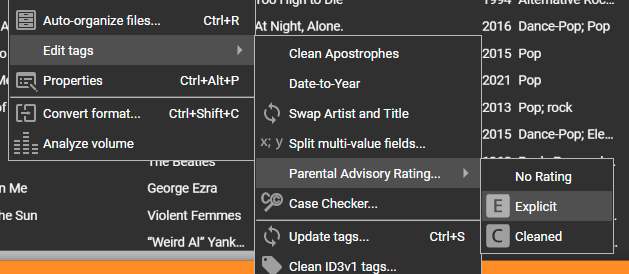
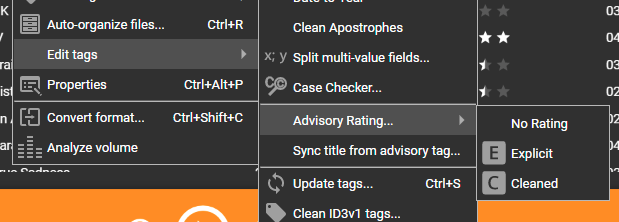
feat: Store advisory in title, and minor fixes Closes: #1, #2, #3

diff --git a/src/actions_add.js b/src/actions_add.js
@@ -1,61 +1,113 @@
 (() => {
 
-    var fieldName_iTunes = 'ITUNESADVISORY';
-
     actions.setParentalRating = {
-        title: _('Parental Advisory Rating') + '...',
+        title: _('Advisory Rating') + '...',
         hotkeyAble: false,
         disabled: uitools.notMediaListSelected,
         visible: window.uitools.getCanEdit,
         submenu: [
-            // {
-            //     title: "Inspect",
-            //     execute: () => {
-            //         let trackList = uitools.getSelectedTracklist();
-            //         uitools.toastMessage.show((typeof trackList), { disableUndo: true });
-            //     }
-            // },
             {
-                title: "No Rating",
-                execute: async () => { await setParentalAdvisoryRating(0); }
+                title: _("No Rating"),
+                execute: async () => { await setAdvisoryRating(0); }
             },
             {
-                title: "Explicit",
+                title: _("Explicit"),
                 icon: "explicit_e",
-                execute: async () => { await setParentalAdvisoryRating(1); }
+                execute: async () => { await setAdvisoryRating(1); }
             },
             {
-                title: "Cleaned",
+                title: _("Cleaned"),
                 icon: "cleaned_c",
-                execute: async () => { await setParentalAdvisoryRating(2); }
+                execute: async () => { await setAdvisoryRating(2); }
             },
         ]
     }
 
+    actions.syncTitleFromAdvisoryTag = {
+        title: _("Sync title from advisory tag") + "...",
+        hotkeyAble: false,
+        disabled: uitools.notMediaListSelected,
+        visible: () => {
+            if (!window.uitools.getCanEdit())
+                return false;
+
+            let config = app.getValue('parentalrating_config', { advisoryInTitle: false });
+            return config.advisoryInTitle;
+        },
+        execute: async () => { await syncTitleFromAdvisoryTag(); }
+    }
+
     window._menuItems.editTags.action.submenu.push({
         action: actions.setParentalRating,
-        order: 60,
-        grouporder: 10
+        order: 1,
+        grouporder: 11
+    }, {
+        action: actions.syncTitleFromAdvisoryTag,
+        order: 2,
+        grouporder: 11
     });
 
-    async function setParentalAdvisoryRating(newRating) {
-        let trackList = uitools.getSelectedTracklist();
+    actions.setPlayingTrackExplicit = {
+        title: _('Set now playing track explicit'),
+        category: "Edit",
+        icon: "explicit_e",
+        hotkeyAble: true,
+        execute: async () => { setNowPlayingAdvisoryRating(1); }
+    }
 
-        // uitools.toastMessage.show(JSON.stringify({ newRating }), { disableUndo: true });
+    actions.setPlayingTrackNotExplicit = {
+        title: _('Set now playing track NOT explicit'),
+        category: "Edit",
+        icon: "explicit_e",
+        hotkeyAble: true,
+        execute: async () => { setNowPlayingAdvisoryRating(0); }
+    }
+
+    async function setAdvisoryRating(newRating) {
+        let trackList = await uitools.getSelectedTracklist().whenLoaded();
+        if (trackList.count === 0) {
+            return;
+        }
+        let config = app.getValue('parentalrating_config', { advisoryInTitle: false });
 
         await listAsyncForEach(trackList, async (track, next) => {
-            let extendedTags = JSON.parse(await track.getExtendedTagsAsync() || "[]");
 
-            var updatedExtendedTags = JSON.stringify([
-                ...extendedTags.filter(x => x.title != fieldName_iTunes),
-                { "title": fieldName_iTunes, "value": newRating.toString() }]
-            );
-            //uitools.toastMessage.show(JSON.stringify({ newRating, updatedExtendedTags }), { disableUndo: true });
+            track.beginUpdate && track.beginUpdate();
+            await window.uitools.tracklistFieldDefs.itunesAdvisory.setValueAsync(track, newRating, config.advisoryInTitle);
+            track.endUpdate && track.endUpdate();
 
-            await track.setExtendedTagsAsync(updatedExtendedTags);
             next();
         }, async () => {
-            uitools.toastMessage.show(JSON.stringify("Updated tags for " + trackList.count + " tracks"), { disableUndo: true });
+            uitools.toastMessage.show("Updated advisory rating for " + trackList.count + " tracks", { disableUndo: true });
+            await trackList.commitAsync();
+        });
+    }
+
+    async function setNowPlayingAdvisoryRating(newRating) {
+        let config = app.getValue('parentalrating_config', { advisoryInTitle: false });
+        let track = app.player.getCurrentTrack();
+
+        track.beginUpdate && track.beginUpdate();
+        await window.uitools.tracklistFieldDefs.itunesAdvisory.setValueAsync(track, newRating, config.advisoryInTitle);
+        track.endUpdate && track.endUpdate();
+    }
+
+    async function syncTitleFromAdvisoryTag() {
+        let trackList = await uitools.getSelectedTracklist().whenLoaded();
+        if (trackList.count === 0)
+            return;
+        let config = app.getValue('parentalrating_config', { advisoryInTitle: false });
+
+        await listAsyncForEach(trackList, async (track, next) => {
+            let rating = await window.uitools.tracklistFieldDefs.itunesAdvisory.getValueAsync(track);
+
+            track.beginUpdate && track.beginUpdate();
+            await window.uitools.tracklistFieldDefs.itunesAdvisory.setValueAsync(track, rating, config.advisoryInTitle);
+            track.endUpdate && track.endUpdate();
+
+            next();
+        }, async () => {
+            uitools.toastMessage.show("Updated title for " + trackList.count + " tracks", { disableUndo: true });
             await trackList.commitAsync();
         });
     }

diff --git a/src/controls/trackListView_add.js b/src/controls/trackListView_add.js
@@ -1,40 +1,92 @@
-((window) => {
+(() => {
 
     var fieldName_iTunes = 'ITUNESADVISORY';
+    var char_E = "🅴";
+    var char_E_html = "&#127348;";
+    var char_C = "🄲";
+    var char_C_html = "&#127282;";
 
     let audioFieldsIndex = window.uitools.tracklistFieldGroups.findIndex(x => x.group === _('Audio'));
     if (audioFieldsIndex < 0) return;
-    if (window.uitools.tracklistFieldGroups[audioFieldsIndex].fields.indexOf("parentalAdvisory") >= 0) return;
+    if (window.uitools.tracklistFieldGroups[audioFieldsIndex].fields.indexOf("itunesAdvisory") >= 0) return;
 
-    window.uitools.tracklistFieldGroups[audioFieldsIndex].fields.push("parentalAdvisory");
+    window.uitools.tracklistFieldGroups[audioFieldsIndex].fields.push("itunesAdvisory");
 
-    window.uitools.tracklistFieldDefs.parentalAdvisory = {
+    window.uitools.tracklistFieldDefs.itunesAdvisory = {
         title: function () {
             return _('Advisory');
         },
         disabled: false,
         checked: false,
-        bindData: function (div, item) {
-            let advisoryValue = getExtendedTagValue(item, fieldName_iTunes)
-            div.innerHTML = advisoryValue == "1" ? "🅴" : advisoryValue == "2" ? "🅲" : "";
-            var tipTxt = advisoryValue == "1" ? "Explicit Content" : advisoryValue == "2" ? "Cleaned" : "No Rating";
+        width: 40,
+        adaptableSize: false,
+        noSorting: true,
+        bindData: async function (div, item) {
+            let advisoryValue = await getExtendedTagValueAsync(item, fieldName_iTunes)
+            div.innerHTML = advisoryValue == "1" ? char_E : advisoryValue == "2" ? char_C : "";
+            var tipTxt = advisoryValue == "1" ? "Explicit Content" : advisoryValue == "2" ? "Cleaned" : undefined;
             if (tipTxt)
                 div.setAttribute('data-tip', tipTxt);
             else
                 div.removeAttribute('data-tip');
         },
-        getValue: function (item) {
-            return getExtendedTagValue(item, fieldName_iTunes);
+        getValueAsync: async function (item) {
+            return await getExtendedTagValueAsync(item, fieldName_iTunes);
         },
-        width: defaultColWidth,
+        setValueAsync: async function (item, newValue, saveToTitle = false) {
+            var updated = await setExtendedTagValueAsync(item, fieldName_iTunes, newValue);
+            let title = item.title || "";
+            title = title
+                .replace(char_E, "").replace(char_E_html, "")
+                .replace(char_C, "").replace(char_C_html, "")
+                .trim();
+
+            if (saveToTitle) {
+                switch (newValue.toString().trim()) {
+                    case "1": title += " " + char_E; break;
+                    case "2": title += " " + char_C; break;
+                }
+            }
+            return checkAndUpdateValue(item, 'title', title) || updated;
+        },
     }
 
-    function getExtendedTagValue(track, extendedTagName) {
+    async function getAllExtendedTags(track) {
         let extendedTags;
-        if (track.asJSON)
-            extendedTags = JSON.parse(track.asJSON).extendedTags;
-            
-        return ((extendedTags || []).find(x => x.title == extendedTagName) || { value: undefined }).value;
+        if (typeof track.getExtendedTagsAsync == "function") {
+            var tagsString = await track.getExtendedTagsAsync();
+            extendedTags = JSON.parse(tagsString || "false")
+        }
+        if (!extendedTags && track.extendedTagsShort)
+            extendedTags = JSON.parse(track.extendedTagsShort || "false")
+        if (!extendedTags && track.asJSON)
+            extendedTags = JSON.parse(track.asJSON || "{}").extendedTags || [];
+
+        return extendedTags || [];
+    }
+
+    async function getExtendedTagValueAsync(track, extendedTagName) {
+        let extendedTags = await getAllExtendedTags(track);
+        return (extendedTags.find(x => x.title == extendedTagName) || { value: undefined }).value;
     };
 
-})(window);
+    async function setExtendedTagValueAsync(track, extendedTagName, newValue) {
+        let extendedTags = await getAllExtendedTags(track);
+        let existingValue = extendedTags.find(x => x.title == extendedTagName)?.value;
+        if (existingValue == newValue.toString())
+            return false;
+
+        var updatedExtendedTags = JSON.stringify([
+            ...extendedTags.filter(x => x.title != extendedTagName),
+            { "title": extendedTagName, "value": newValue.toString() }
+        ]);
+
+        if (typeof track.setExtendedTagsAsync == "function")
+            await track.setExtendedTagsAsync(updatedExtendedTags)
+        else
+            throw "Failed to set extended tags!"
+
+        return true;
+    };
+
+})();

diff --git a/src/controls/player_add.js b/src/controls/player_add.js
@@ -1,18 +1,22 @@
-((window) => {
+(() => {
     var fieldName_iTunes = 'ITUNESADVISORY';
+    var char_E_html = "&#127348;";
+    var char_C_html = "&#127282;";
 
     let baseSetTrackSummary = window.playerControlsHandlers.trackSummary.setValue;
 
     window.playerControlsHandlers.trackSummary.setValue = function (el, playerCtrl, sd) {
         baseSetTrackSummary(el, playerCtrl, sd);
 
-        var parentalAdvisory = getExtendedTagValue(sd, fieldName_iTunes);
-        if (parentalAdvisory == "1") {
+        let config = app.getValue('parentalrating_config', { advisoryInTitle: false });
+        if (!config.advisoryInTitle) {
+            var parentalAdvisory = getExtendedTagValue(sd, fieldName_iTunes);
             let summaryEl = el;
-            summaryEl.innerHTML += ' &#127348;' // 🅴
-        } else if (parentalAdvisory == "2") {
-            let summaryEl = el;
-            summaryEl.innerHTML += ' &#127346;' // 🅲
+            if (parentalAdvisory == "1") {
+                summaryEl.innerHTML += ' ' + char_E_html;
+            } else if (parentalAdvisory == "2") {
+                summaryEl.innerHTML += ' ' + char_C_html;
+            }
         }
     }
 
@@ -23,4 +27,4 @@
 
         return ((extendedTags || []).find(x => x.title == extendedTagName) || { value: undefined }).value;
     };
-})(window);
+})();

diff --git a/src/config.js b/src/config.js
@@ -1,0 +1,14 @@
+window.configInfo = {
+    load: function (pnlDiv, addon) {
+        this.config = app.getValue('parentalrating_config', { advisoryInTitle: false });
+        var UI = getAllUIElements(pnlDiv);
+        UI.chbAdvisoryInTitle.controlClass.checked = this.config.advisoryInTitle;
+        // UI.chbAdvisoryInTitleEncoding.controlClass.checked = this.config.advisoryInTitleEncoding == "html";
+    },
+    save: function (pnlDiv, addon) {
+        var UI = getAllUIElements(pnlDiv);
+        this.config.advisoryInTitle = UI.chbAdvisoryInTitle.controlClass.checked;
+        // this.config.advisoryInTitleEncoding = UI.chbAdvisoryInTitleEncoding.controlClass.checked ? "html" : "none";
+        app.setValue('parentalrating_config', this.config);
+    }
+}

diff --git a/src/config.html b/src/config.html
@@ -1,0 +1,5 @@
+<div class="uiRows">
+    <div>
+        <div data-id="chbAdvisoryInTitle" data-control-class="Checkbox" data-tip="">Save advisory in track title</div>
+    </div>
+</div>

diff --git a/README.md b/README.md
@@ -1,6 +1,12 @@
-# Parental Advisory Explicit Content
+# Parental Advisory Explicit Content <!-- omit in toc -->
 
 Adds basic support for the ITUNESADVISORY field to indicate explicit content.
+
+- [Setting the Flag](#setting-the-flag)
+- [ITUNESADVISORY Values](#itunesadvisory-values)
+- [Player Changes](#player-changes)
+- [Advisory Column in Track List](#advisory-column-in-track-list)
+- [Save advisory in track title](#save-advisory-in-track-title)
 
 ## Setting the Flag
 
@@ -9,6 +15,14 @@ The ITUNESADVISORY flag is not natively supported by MediaMonkey, so it appears 
 Rather than manually setting this extended tag, you can use a new context menu that is added by this addon. From the "Edit tags" menu, select "Parental Advisory Rating" and select the appropriate value.
 
 ![](docs/img/parental_advisory_context_menu.png)
+
+## ITUNESADVISORY Values
+
+This tag has 3 supported values:
+
+* "0": No rating or advisory
+* "1": Contains explicit content
+* "2": Cleaned (self-censored) to remove explicit content
 
 ## Player Changes
 
@@ -23,3 +37,17 @@ A new column definition is also available to add to the track list views.
 ![](docs/img/choose_columns_advisory.png)
 
 ![](docs/img/track_list_advisory_column.png)
+
+## Save advisory in track title
+
+When configured to save advisory in track title, the "Explicit" or "Clean" indicator will be appended to the end of the track's title.
+
+![](docs/img/addon_configuration.png)
+
+Note that this will typically affect the filename as well.
+
+![](docs/img/track_properties_explicit.png)
+
+The main reason for doing this is to make the advisory visible on external devices or mobile apps.
+
+![](docs/img/mediamonkey_android_explicit.jpg)
